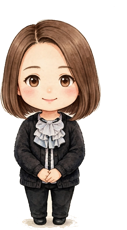
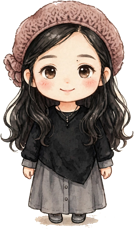
ohana-jima: ひろみさんのアバターを本人の写真で作り直し、ゆきさんを追加

diff --git a/ohana-jima/index.html b/ohana-jima/index.html
@@ -492,7 +492,7 @@ Object.keys(SCENES).forEach(id => {
     clickHandlerFunc: (evt, a) => walkTo(a), clickHandlerArgs: ex,
     createTooltipFunc: (div, a) => { walkChevron(div, a); ["pointerdown","touchstart","click"].forEach(ev => div.addEventListener(ev, (e) => { e.stopPropagation(); walkTo(a); })); }, createTooltipArgs: ex }));
   POSTS.filter(p => p.scene === id).forEach(p => hs.push(catSpot(p)));
-  if (id === "counter") hs.push(keeperSpot(true));
+  if (id === "counter") { hs.push(keeperSpot(true)); hs.push(shopCat("MAHALO 店員さん", "いらっしゃいませ", "av-yuki.png", -38, "mahalo", true)); }
   if (id === "elua") hs.push(eluaCat());
   if (id === "lea") hs.push(leaCat());
   scenesCfg[id] = { type: "equirectangular", panorama: sc.pano, yaw: sc.yaw, pitch: -2, hfov: sc.hfov, hotSpots: hs };
@@ -879,6 +879,7 @@ const BLDGS = [
 ];
 const TOWN_STAFF = [
   { img: 'av-mahalo.png', tag: 'MAHALO\u306e\u5e97\u54e1\u3055\u3093', x: 282, y: 250, dest: 'stairs' },
+  { img: 'av-yuki.png', tag: 'MAHALO\u306e\u5e97\u54e1\u3055\u3093', x: 322, y: 262, dest: 'counter' },
   { img: 'av-elua.png', tag: 'elua\u306e\u5e97\u54e1\u3055\u3093', x: 182, y: 292, dest: 'elua' },
   { img: 'av-yuri.png', tag: 'MOMOwaRI', x: 238, y: 298, dest: 'lea' }
 ];
